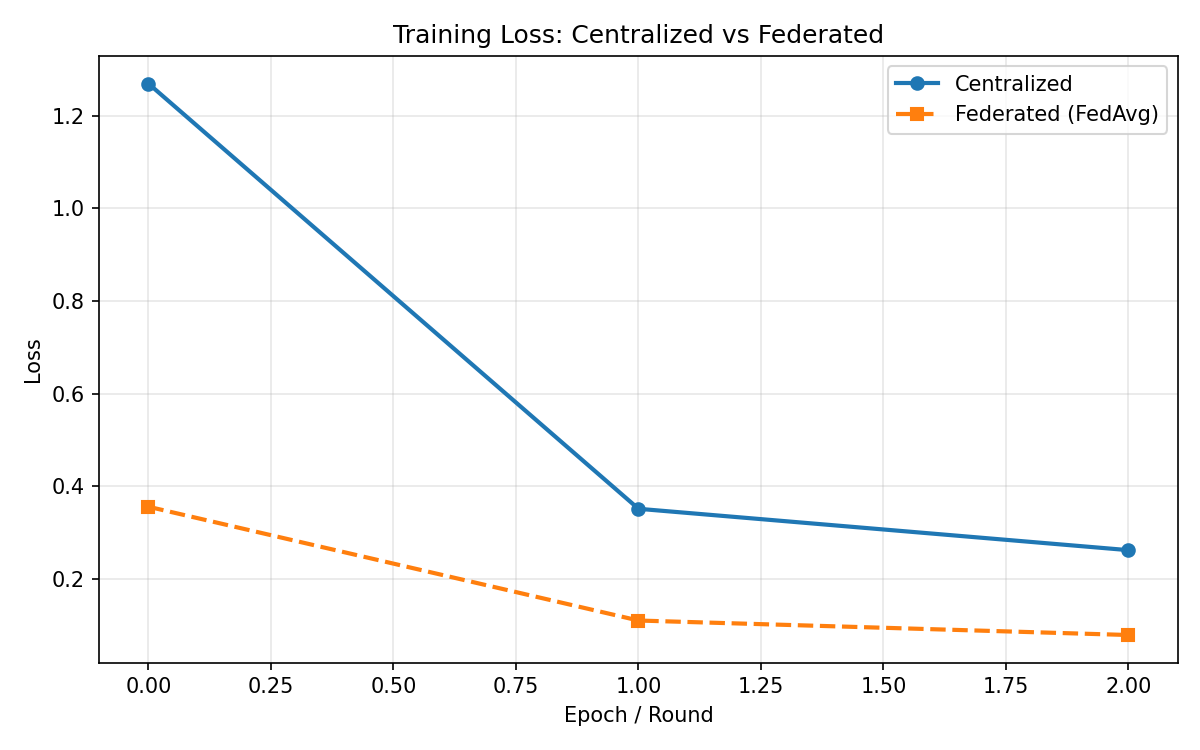
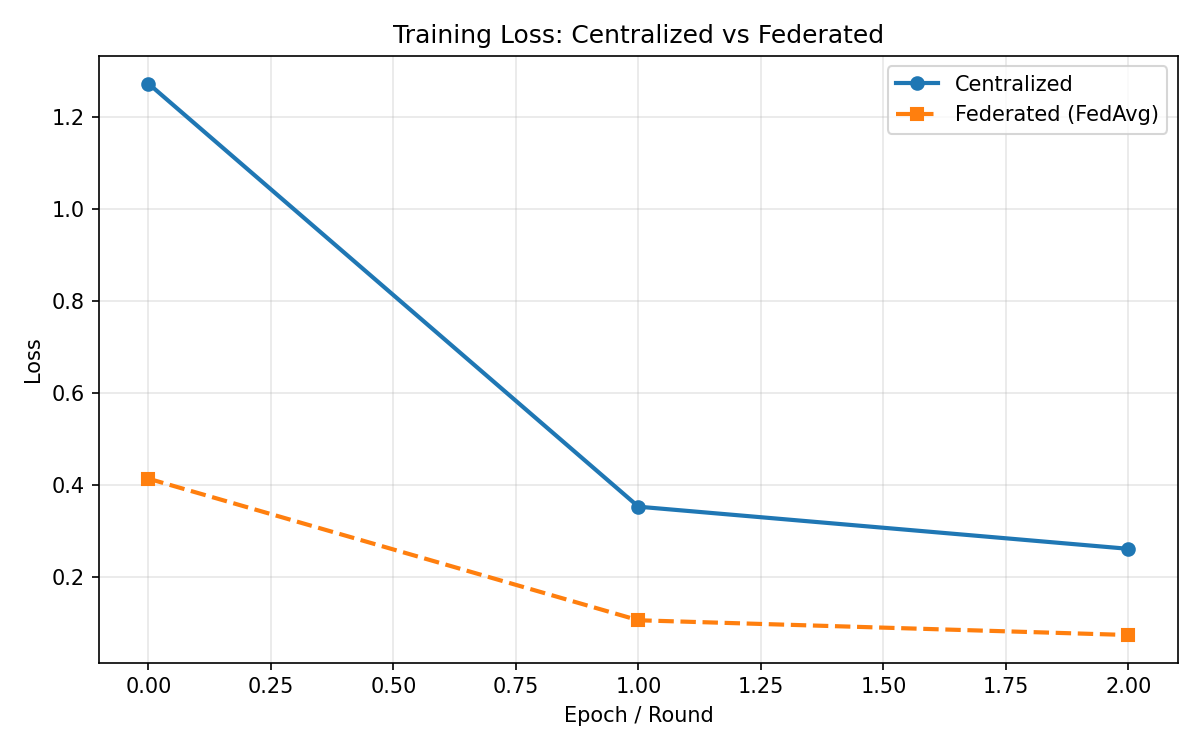
small clean

diff --git a/src/overlay/comparison_overlay.py b/src/overlay/comparison_overlay.py
@@ -5,8 +5,7 @@ sys.path.append(os.path.abspath("../.."))
 print(sys.executable)
 
 from torchvision import datasets, transforms
-from torch.utils.data import DataLoader
-from torch.utils.data import random_split # use for data distribution for clients
+from torch.utils.data import DataLoader, random_split
 
 from src.client_training import run_fl, run_centralised_ml
 from src.data_loading import create_dirichlet_client_loaders, debug_non_iid_split
@@ -33,10 +32,11 @@ mnist_testset = datasets.MNIST(root = './data', train = False, download = True, 
 # a CNN with 2 layers: Layer1-> Relu->Pool->Layer2->...->Flatten->Fully connected->Output
 gl_model = CNN()
 model = CNN()
+
 NUMBER_OF_CLIENTS = 5
 NUMBER_OF_EPOCHS = 3
 NUMBER_OF_ROUNDS = 3
-DIRICHLET_ALPHA = 0.01
+DIRICHLET_ALPHA = 1
 BATCH_SIZE = 64
 # %%
 # Data Loaders
@@ -47,8 +47,6 @@ train_loader = DataLoader(mnist_trainset, batch_size = BATCH_SIZE, shuffle = Tru
 ###
 # this will show what digits each client has (console)
 debug_non_iid_split(client_training_loaders)
-# and create a heatmap-style overview per client
-plot_client_label_distribution(client_training_loaders)
 
 val_loader = DataLoader(mnist_valset, batch_size = BATCH_SIZE, shuffle = False)
 test_loader = DataLoader(mnist_testset, batch_size = BATCH_SIZE, shuffle=False)
@@ -69,5 +67,7 @@ fed_losses, fed_val_accs        =       run_fl(number_of_rounds = NUMBER_OF_ROUN
                                               val_loader = val_loader,
                                               test_loader = test_loader)
 
-plot_loss_overlay(central_losses, fed_losses)
-plot_acc_overlay(central_val_accs, fed_val_accs)
+# PLOTS
+plot_loss_overlay(central_losses, fed_losses) # loss comparison between ML and FL
+plot_acc_overlay(central_val_accs, fed_val_accs) # accuracy comparison between ML and FL
+plot_client_label_distribution(client_training_loaders) # create a heatmap-style overview per client
